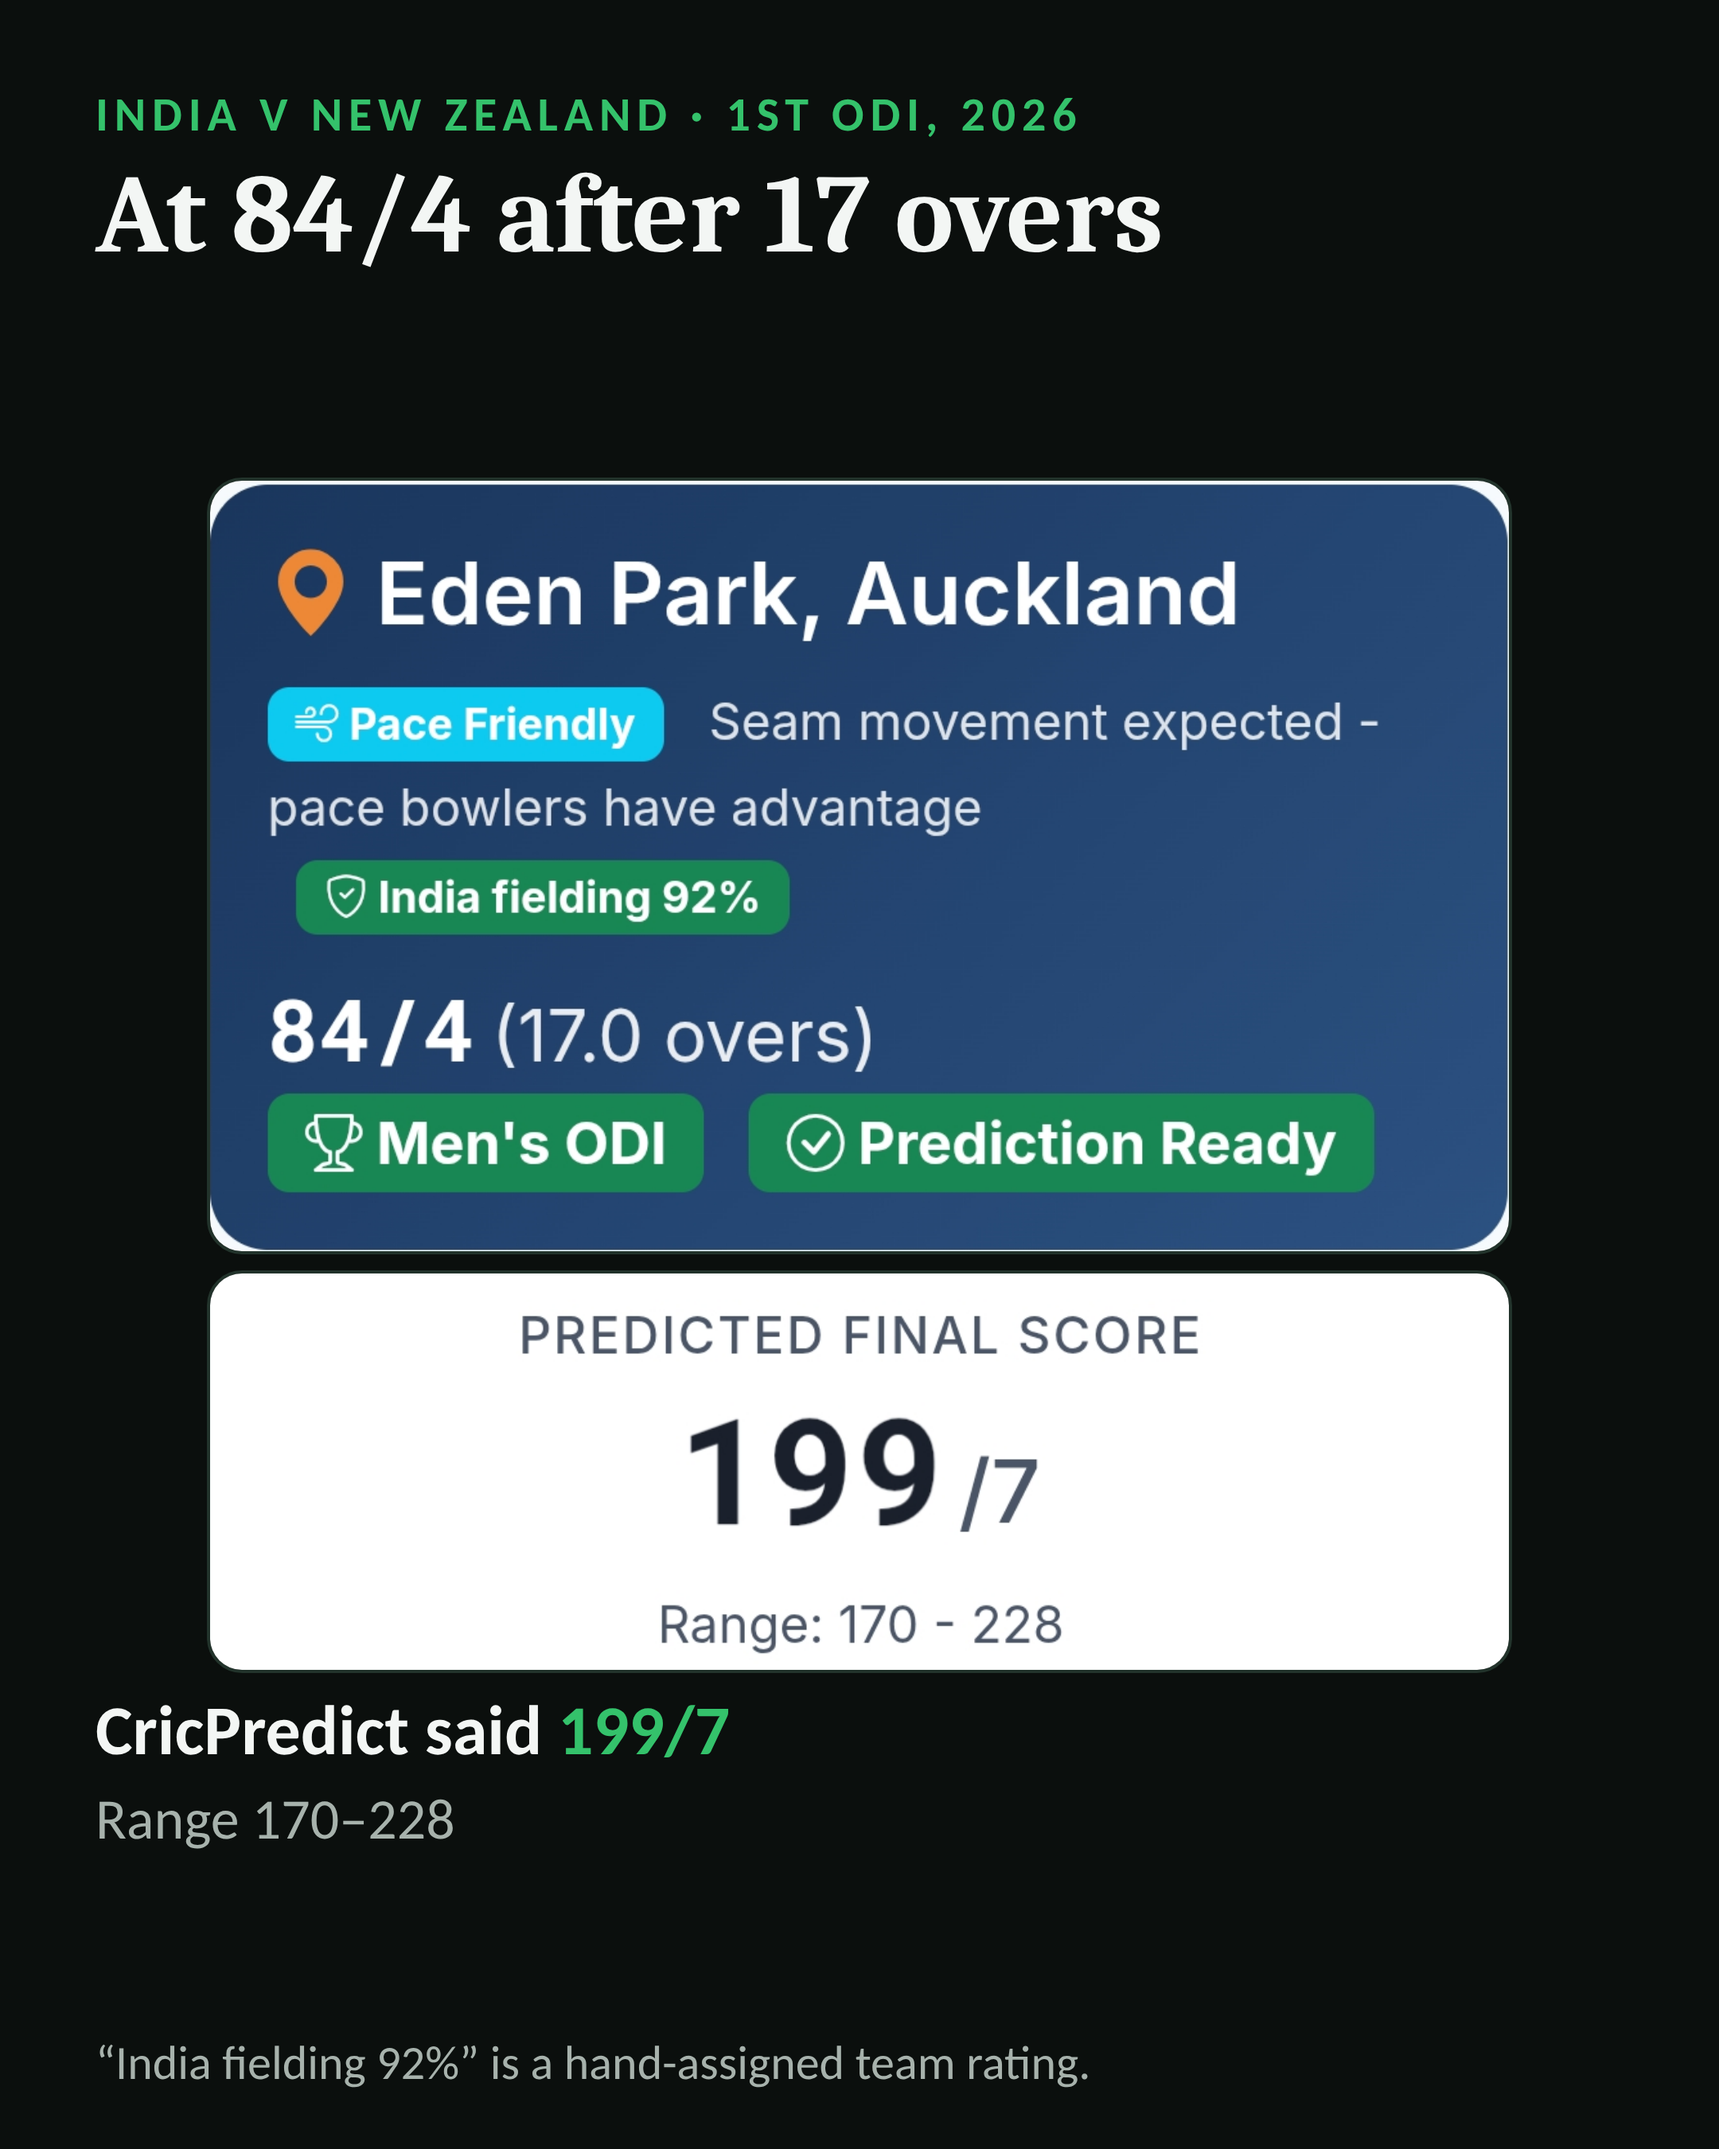
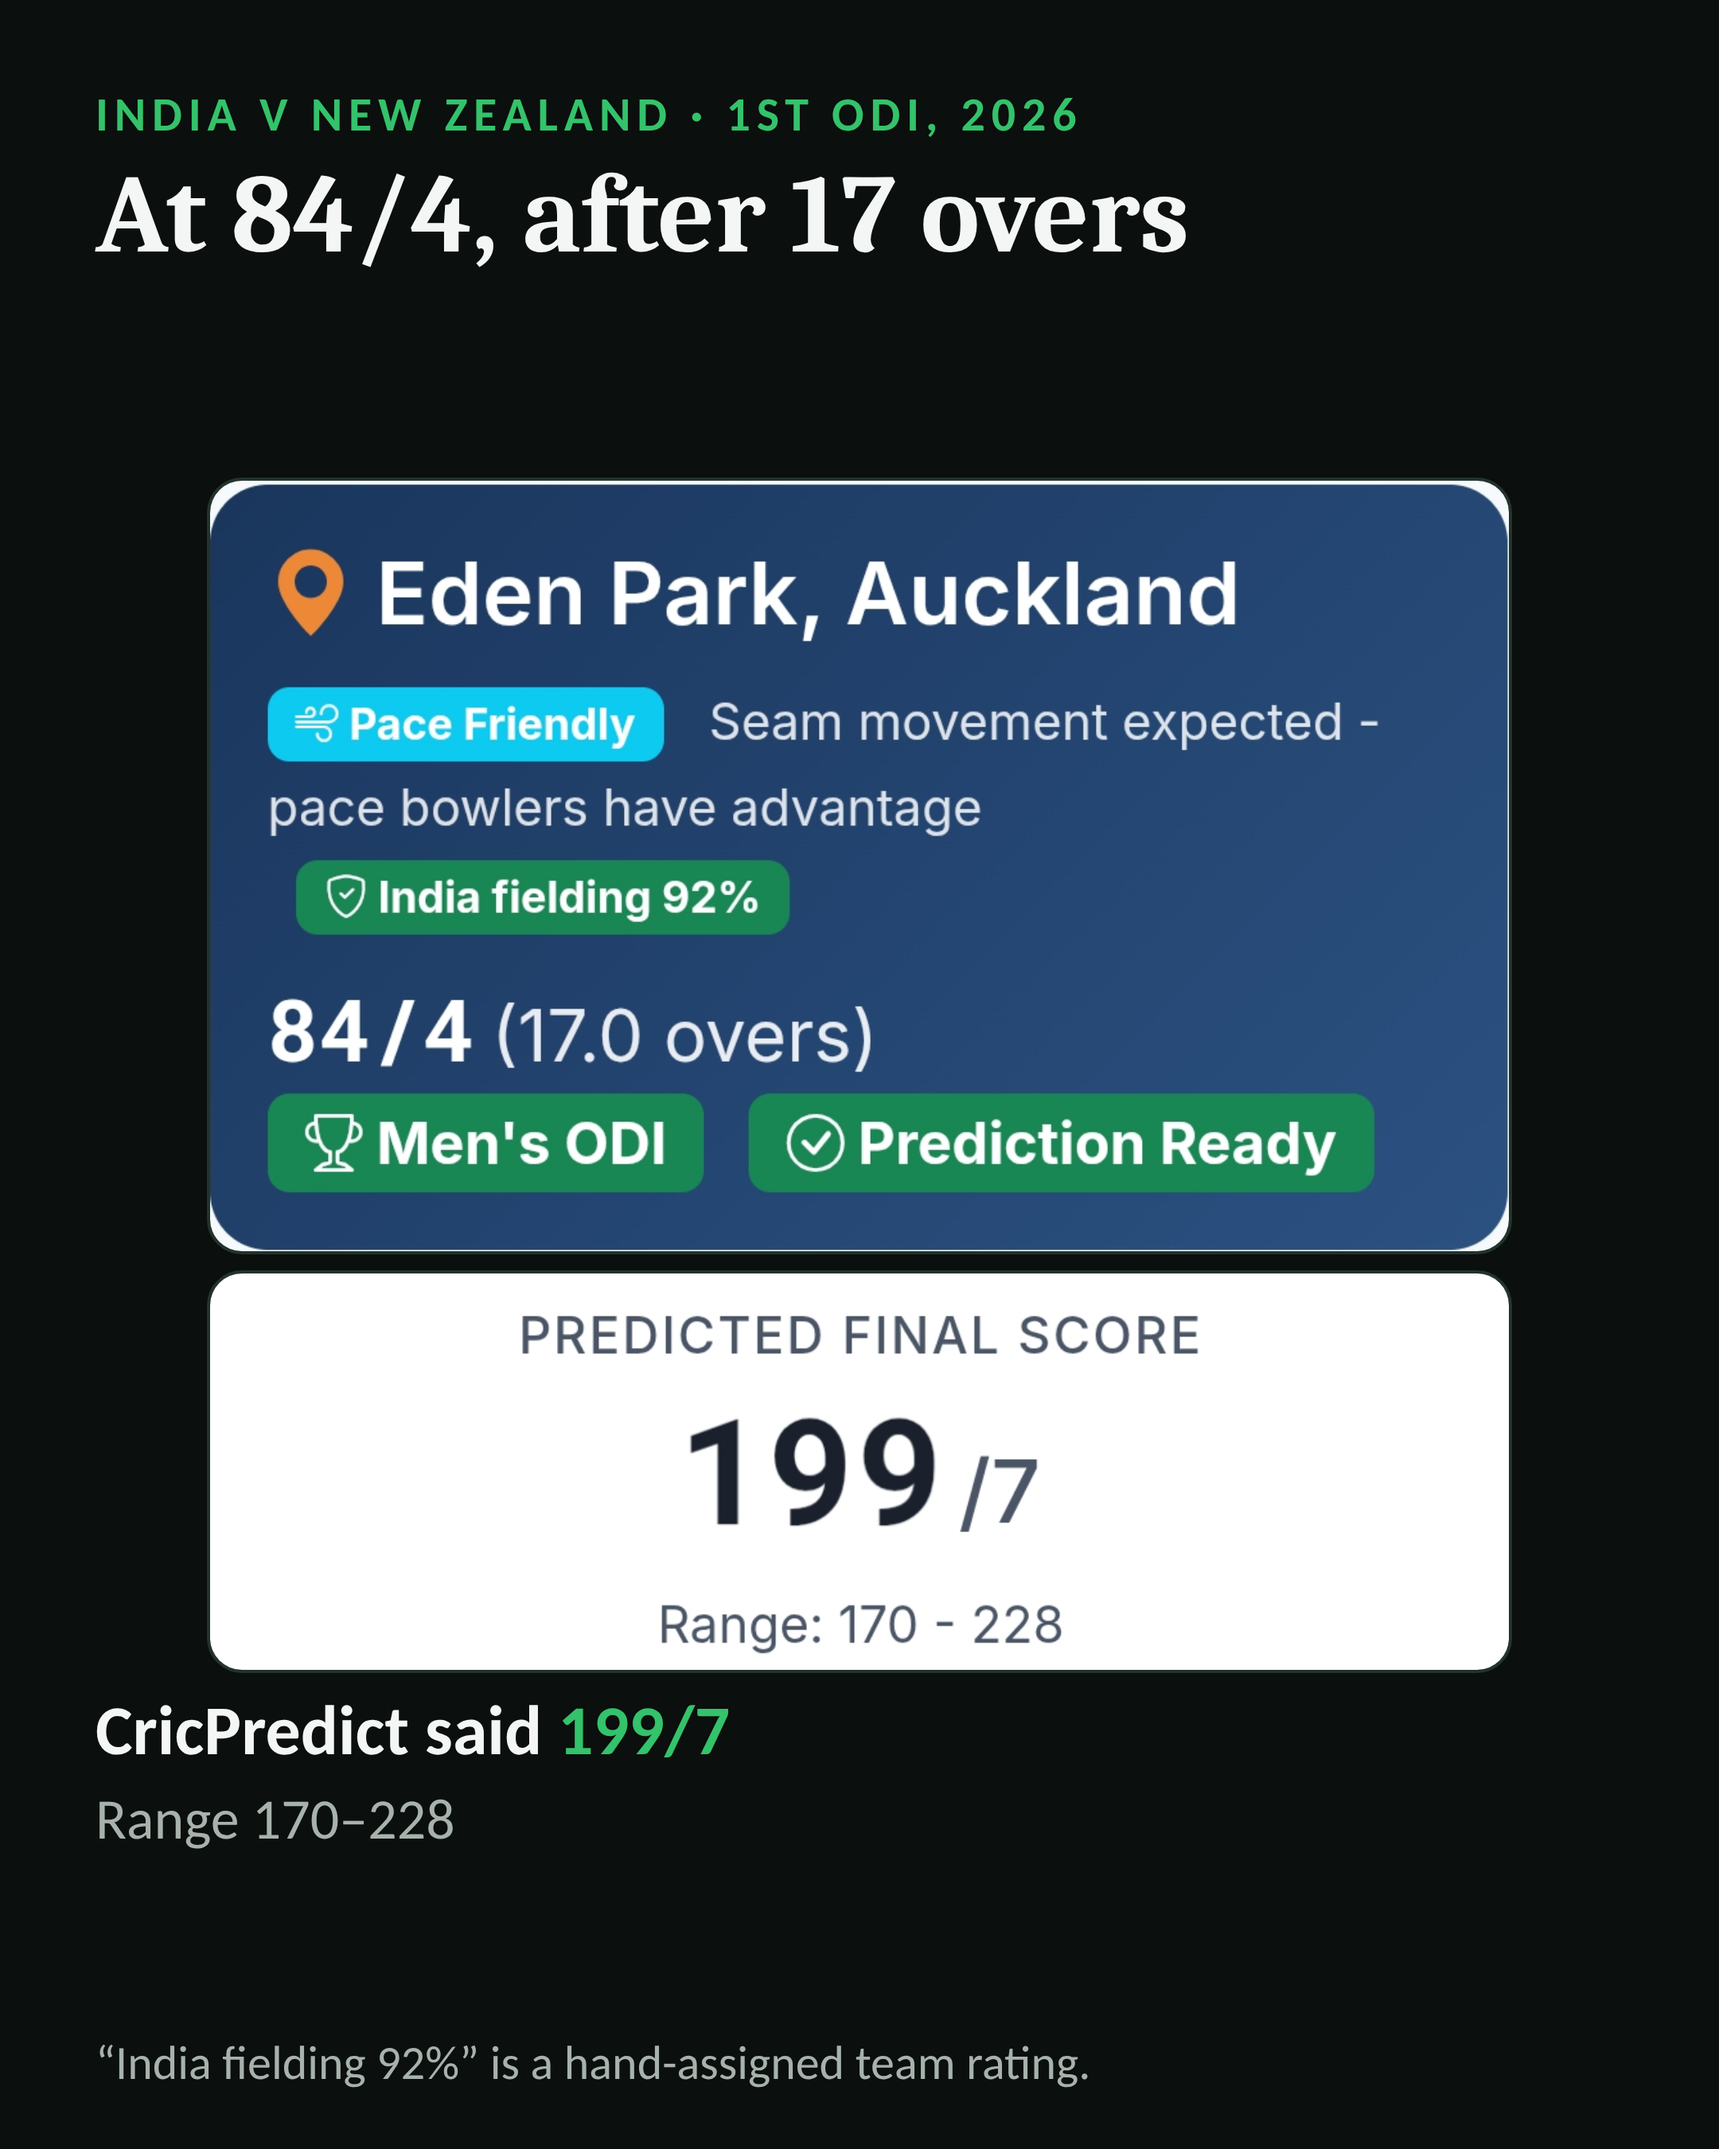
Tighter face crop (collar out of frame) and comma in the 84/4 title
Claude-Session: https://claude.ai/code/session_01WemNfgRxdciwJG2j1zSRxe

Changed region(s): [[0.2792, 0.0622, 0.7134, 0.1244]]

diff --git a/presentation/video/linkedin_draft/scenes.html b/presentation/video/linkedin_draft/scenes.html
@@ -61,7 +61,7 @@ h1{position:absolute;left:60px;top:100px;width:960px;font-family:Caladea,Georgia
 <!-- 03a NZ v IND, prediction at 84/4 -->
 <section class="scene" id="s03a_nz_pred">
   <div class="abs kicker">India v New Zealand · 1st ODI, 2026</div>
-  <h1>At 84/4 after 17 overs</h1>
+  <h1>At 84/4, after 17 overs</h1>
   <img class="shot" src="assets/crops/banner_84.png" style="left:130px;top:300px;width:820px">
   <img class="shot" src="assets/crops/score_199.png" style="left:130px;top:798px;width:820px">
   <div class="abs take">CricPredict said <span class="green">199/7</span><small>Range 170–228</small></div>
@@ -70,7 +70,7 @@ h1{position:absolute;left:60px;top:100px;width:960px;font-family:Caladea,Georgia
 <!-- 03b result -->
 <section class="scene" id="s03b_nz_result">
   <div class="abs kicker">India v New Zealand · 1st ODI, 2026</div>
-  <h1>At 84/4 after 17 overs</h1>
+  <h1>At 84/4, after 17 overs</h1>
   <img class="shot" src="assets/crops/banner_84.png" style="left:130px;top:300px;width:820px">
   <img class="shot" src="assets/crops/score_199.png" style="left:130px;top:798px;width:820px">
   <div class="abs take">Finished <span class="mint">185 all out</span><small>14 runs lower, 3 wickets more than predicted</small></div>

diff --git a/presentation/video/linkedin_draft/tools/build_talking.py b/presentation/video/linkedin_draft/tools/build_talking.py
@@ -36,9 +36,9 @@ for i, b in enumerate(cfg["beats"]):
         fc = f"[0:v]crop=576:720:{x0}:0,scale={W}:{H}:flags=lanczos,format=yuv420p[bg];[1:v]scale={W}:{H}[ov];[bg][ov]overlay,format=yuv420p[v]"
         run(base + ["-i", str(clip), "-loop", "1", "-framerate", str(FPS), "-t", f"{dur:.3f}", "-i", str(art), "-filter_complex", fc, "-map", "[v]", "-map", "0:a", "-c:v", "libx264", "-crf", "16", "-preset", "veryfast", "-r", str(FPS), "-c:a", "aac", "-b:a", "192k", "-t", f"{dur:.3f}", str(seg)])
     else:
-        x0 = max(0, min(1280 - 720, cx - 360))
+        PC = cfg.get('pip_crop', {'size': 720, 'y': 0}); x0 = max(0, min(1280 - PC['size'], cx - PC['size'] // 2))
         zoom = f"scale=1620:2025,scale=w='trunc(1620*(1+{ZOOM}*t/{dur:.3f})/2)*2':h=-2:eval=frame,crop=1620:2025:(iw-1620)/2:(ih-2025)*0.40,scale={W}:{H}"
-        fc = (f"[1:v]{zoom},fps={FPS}[z];[0:v]crop=720:720:{x0}:0,scale={P['size']}:{P['size']},format=rgba,geq=r='r(X,Y)':g='g(X,Y)':b='b(X,Y)':a='if(lte(hypot(X-{P['size']/2},Y-{P['size']/2}),{P['size']/2}),255,0)'[fc];"
+        fc = (f"[1:v]{zoom},fps={FPS}[z];[0:v]crop={PC['size']}:{PC['size']}:{x0}:{PC['y']},scale={P['size']}:{P['size']},format=rgba,geq=r='r(X,Y)':g='g(X,Y)':b='b(X,Y)':a='if(lte(hypot(X-{P['size']/2},Y-{P['size']/2}),{P['size']/2}),255,0)'[fc];"
               f"[2:v]scale={P['size']}:{P['size']}[r];[z][fc]overlay={P['x']}:{P['y']}[a1];[a1][r]overlay={P['x']}:{P['y']},format=yuv420p[v]")
         run(base + ["-i", str(clip), "-loop", "1", "-framerate", str(FPS), "-t", f"{dur:.3f}", "-i", str(art), "-loop", "1", "-framerate", str(FPS), "-t", f"{dur:.3f}", "-i", str(R / "assets" / "placeholders" / "ring.png"),
                     "-filter_complex", fc, "-map", "[v]", "-map", "0:a", "-c:v", "libx264", "-crf", "16", "-preset", "veryfast", "-r", str(FPS), "-c:a", "aac", "-b:a", "192k", "-t", f"{dur:.3f}", str(seg)])

diff --git a/presentation/video/fielding_video_script_v4.md b/presentation/video/fielding_video_script_v4.md
@@ -10,7 +10,7 @@ I'm building CricPredict: a cricket prediction app for fans. Entertainment only,
 
 First ODI of India's 2026 tour of New Zealand. Virat Kohli took a one-handed diving catch at second slip to dismiss Nathan Smith. Rohit Sharma made a sharp run-out assist. Moments like these swing a match.
 
-At 84/4 after 17 overs, CricPredict predicted 199/7. New Zealand finished 185 all out: fourteen runs lower, but three wickets more than predicted.
+At 84/4, after 17 overs, CricPredict predicted 199/7. New Zealand finished 185 all out: fourteen runs lower, but three wickets more than predicted.
 
 Later, at 171/9 after 37.3 overs, it predicted 183 all out. Two runs off. Encouraging, but a much shorter horizon.
 
